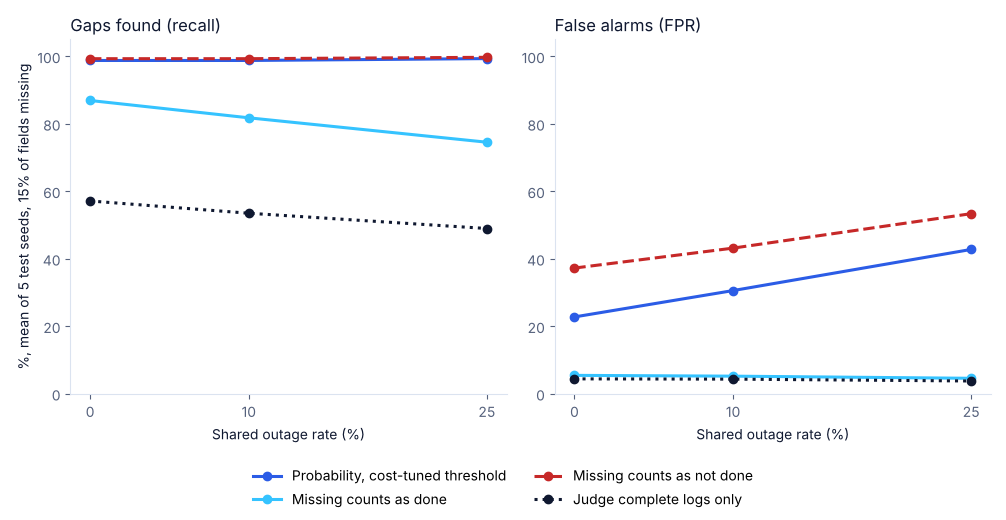
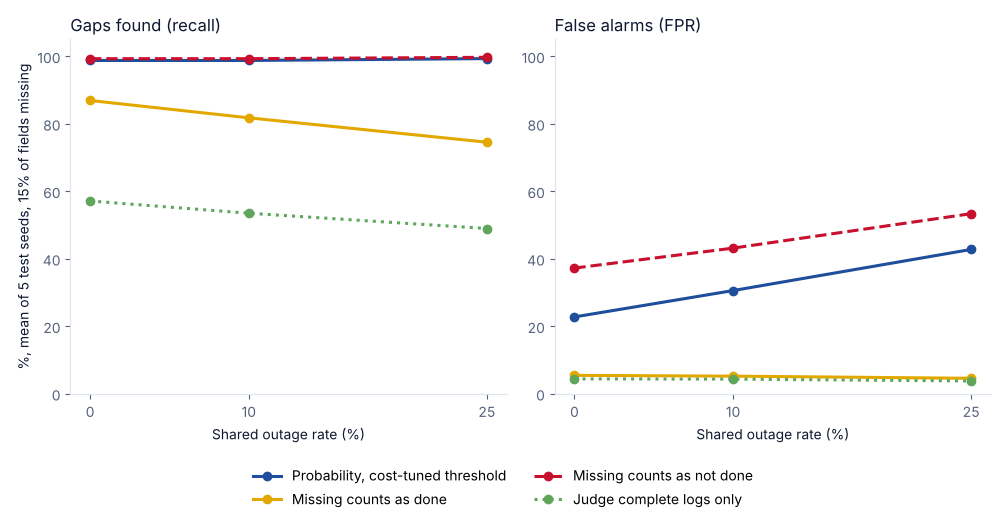
Use the house chart colours

diff --git a/make_chart.py b/make_chart.py
@@ -14,10 +14,10 @@ import matplotlib.pyplot as plt  # noqa: E402
 ROOT = Path(__file__).resolve().parent
 MISSING = 0.15
 RULES = [
-    ("probability", "Probability, cost-tuned threshold", "#2b5ce6", "-"),
-    ("optimistic_missing", "Missing counts as done", "#35c3ff", "-"),
-    ("pessimistic_missing", "Missing counts as not done", "#c62828", "--"),
-    ("strict_complete", "Judge complete logs only", "#0f1830", ":"),
+    ("probability", "Probability, cost-tuned threshold", "#1F4E9C", "-"),
+    ("optimistic_missing", "Missing counts as done", "#E3A800", "-"),
+    ("pessimistic_missing", "Missing counts as not done", "#C8102E", "--"),
+    ("strict_complete", "Judge complete logs only", "#5FA65A", ":"),
 ]
 
 
